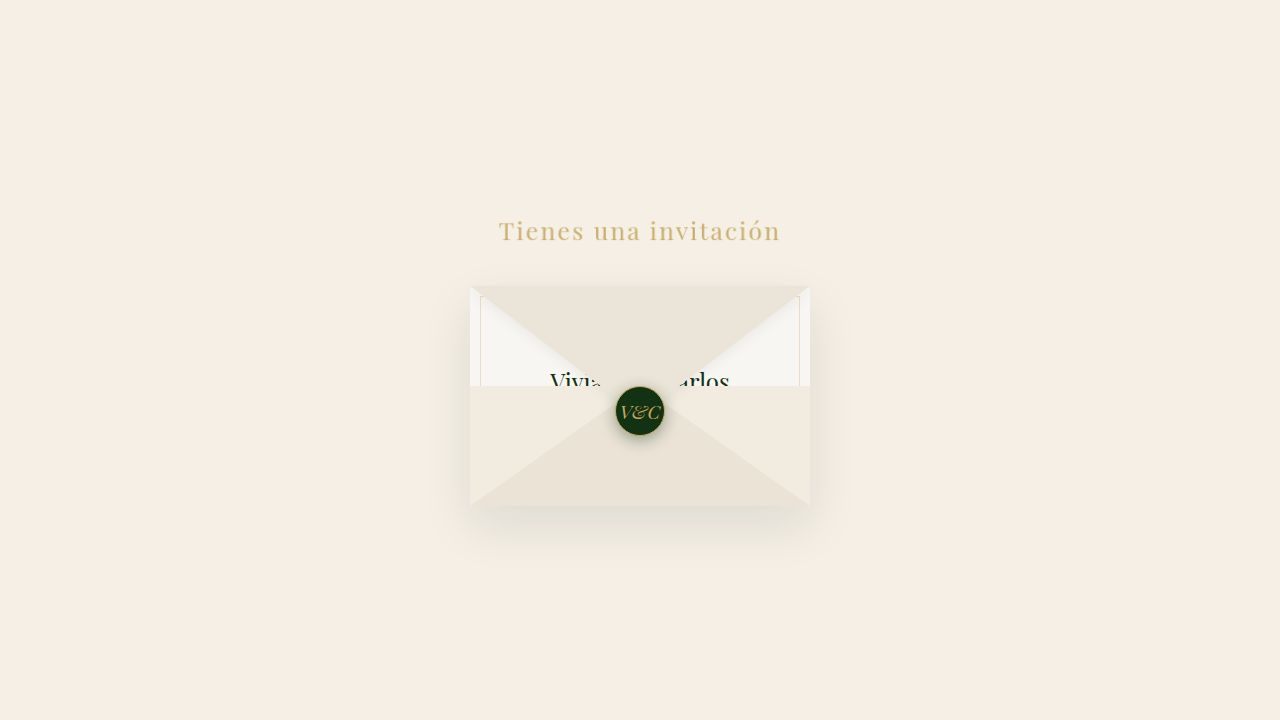
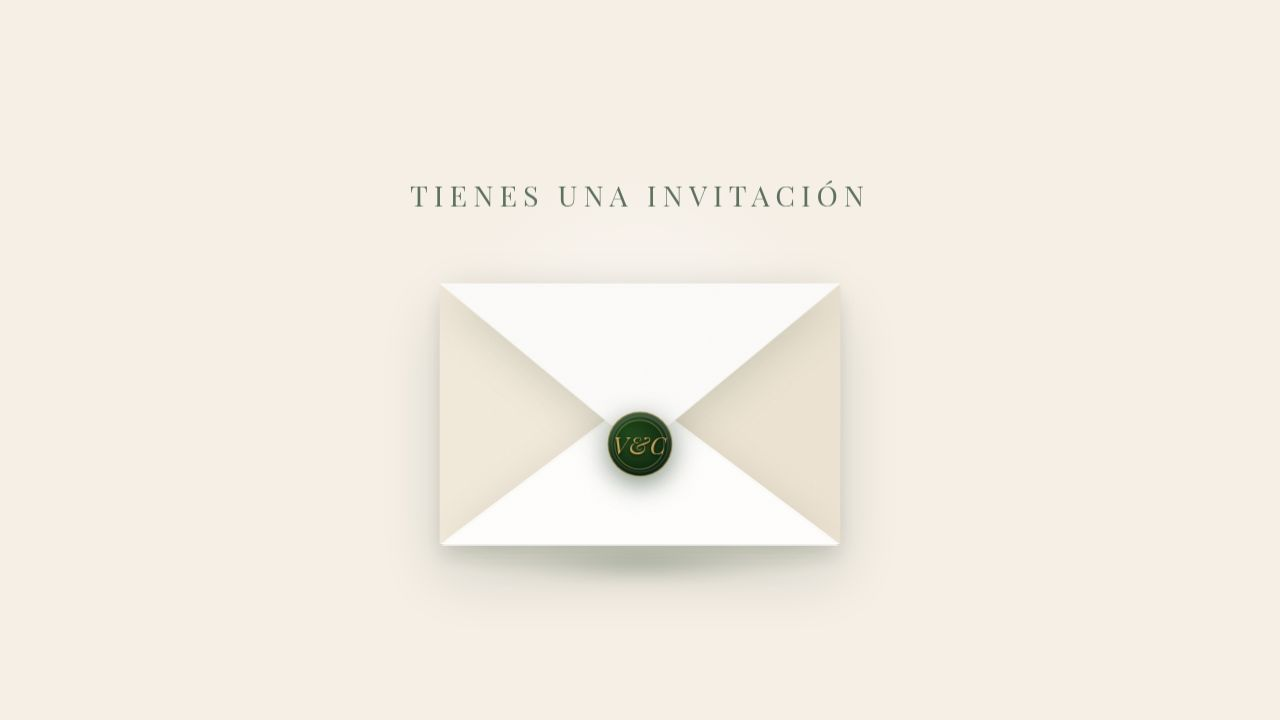
Improve envelope opening animation with refined 3D layering
Adjust CSS properties including `perspective`, `transform-style`, and `translateZ` values across various envelope elements to fix 3D stacking context issues during the opening animation.

Replit-Commit-Author: Agent
Replit-Commit-Session-Id: 67ff53f1-6319-4c05-a1fa-d823826aa299
Replit-Commit-Checkpoint-Type: full_checkpoint
Replit-Commit-Event-Id: a6f57064-525f-4b34-ab1a-0c7d4b36e7a5
Replit-Commit-Screenshot-Url: https://storage.googleapis.com/screenshot-production-us-central1/8185892f-c34b-42bc-9aa0-82786a02d8de/67ff53f1-6319-4c05-a1fa-d823826aa299/6mTcVJS
Replit-Helium-Checkpoint-Created: true

Changed region(s): [[0.3438, 0.3972, 0.6562, 0.825], [0.3125, 0.2444, 0.6562, 0.3361]]

diff --git a/client/src/styles.css b/client/src/styles.css
@@ -140,6 +140,7 @@ body::before {
     height: 260px;
     margin: 0 auto;
     border-radius: 4px;
+    perspective: 2000px;
     transform-style: preserve-3d;
     box-shadow: 0 30px 60px rgba(19, 49, 19, 0.15), 
                 0 15px 20px rgba(19, 49, 19, 0.1),
@@ -157,6 +158,7 @@ body::before {
     border-radius: 4px;
     z-index: 1;
     box-shadow: inset 0 20px 40px rgba(0, 0, 0, 0.08);
+    transform: translateZ(-2px);
 }
 
 /* Textura de papel premium global para el sobre */
@@ -169,6 +171,7 @@ body::before {
     z-index: 10;
     border-radius: 4px;
     mix-blend-mode: multiply;
+    transform: translateZ(12px);
 }
 
 /* Solapas laterales para dar volumen real */
@@ -181,6 +184,7 @@ body::before {
     border-left: 200px solid #f2eadb;
     z-index: 3;
     filter: drop-shadow(4px 0 5px rgba(0,0,0,0.03));
+    transform: translateZ(4px);
 }
 
 .envelope-right {
@@ -192,6 +196,7 @@ body::before {
     border-right: 200px solid #ede4d3;
     z-index: 3;
     filter: drop-shadow(-4px 0 5px rgba(0,0,0,0.03));
+    transform: translateZ(4px);
 }
 
 /* Solapa inferior (Frente) */
@@ -205,6 +210,7 @@ body::before {
     z-index: 4;
     border-radius: 0 0 4px 4px;
     filter: drop-shadow(0 -5px 15px rgba(0,0,0,0.06));
+    transform: translateZ(6px);
 }
 
 /* Highlight en el borde de la solapa inferior */
@@ -216,7 +222,7 @@ body::before {
     border-left: 200px solid transparent;
     border-right: 200px solid transparent;
     border-bottom: 150px solid rgba(255,255,255,0.7);
-    transform: scale(0.99) translateY(2px);
+    transform: scale(0.99) translateY(2px) translateZ(1px);
     z-index: -1;
 }
 
@@ -232,6 +238,7 @@ body::before {
     transform-origin: top;
     transition: transform 1.2s cubic-bezier(0.25, 1, 0.5, 1), z-index 0s 0.6s;
     filter: drop-shadow(0 10px 20px rgba(19, 49, 19, 0.15));
+    transform: translateZ(8px);
 }
 
 /* Highlight y textura en la solapa superior */
@@ -244,7 +251,7 @@ body::before {
     border-left: 200px solid transparent;
     border-right: 200px solid transparent;
     border-top: 165px solid rgba(255, 255, 255, 0.6);
-    transform: scale(0.985);
+    transform: scale(0.985) translateZ(1px);
 }
 
 /* Sombra de contacto muy fina bajo la solapa */
@@ -257,7 +264,7 @@ body::before {
     border-left: 198px solid transparent;
     border-right: 198px solid transparent;
     border-top: 163px solid rgba(0, 0, 0, 0.02);
-    transform: translateY(2px);
+    transform: translateY(2px) translateZ(-1px);
     z-index: -1;
 }
 
@@ -265,7 +272,7 @@ body::before {
 .envelope-seal {
     position: absolute;
     top: 160px; left: 50%;
-    transform: translate(-50%, -50%);
+    transform: translate(-50%, -50%) translateZ(10px);
     width: 65px; height: 65px;
     background: radial-gradient(circle at 30% 30%, #1a451a 0%, var(--green-main) 50%, var(--green-ter) 100%);
     border-radius: 50%;
@@ -274,7 +281,7 @@ body::before {
     box-shadow: 0 8px 25px rgba(19, 49, 19, 0.5),
                 inset 0 3px 6px rgba(255, 255, 255, 0.3),
                 inset 0 -3px 8px rgba(0, 0, 0, 0.6);
-    transition: opacity 0.6s ease, transform 0.6s cubic-bezier(0.25, 1, 0.5, 1);
+    transition: opacity 0.6s ease, transform 0.6s cubic-bezier(0.25, 1, 0.5, 1), z-index 0s 0.6s;
     border: 1px solid rgba(198, 167, 94, 0.8);
 }
 
@@ -319,6 +326,7 @@ body::before {
                 0 0 0 7px rgba(198, 167, 94, 0.15) inset;
     transition: transform 1.5s cubic-bezier(0.25, 1, 0.5, 1) 0.3s;
     padding: 30px;
+    transform: translateZ(1px);
 }
 
 .letter h3 {
@@ -354,21 +362,21 @@ body::before {
     transform: translateY(25px) scale(0.98);
 }
 .envelope-wrapper.open .envelope-flap {
-    transform: rotateX(180deg);
-    z-index: 0;
+    transform: translateZ(-8px) rotateX(180deg);
+    z-index: 1;
     filter: drop-shadow(0 -10px 20px rgba(19, 49, 19, 0.08));
 }
 .envelope-wrapper.open .envelope-seal {
     opacity: 0;
-    transform: translate(-50%, -50%) scale(0.7);
+    transform: translate(-50%, -50%) translateZ(10px) scale(0.7);
 }
 .envelope-wrapper.open .letter {
-    transform: translateY(-130px);
-    z-index: 4; /* Sube por encima de las solapas frontales */
+    transform: translateY(-130px) translateZ(1px);
     box-shadow: 0 -20px 40px rgba(19, 49, 19, 0.12),
                 0 0 0 1px rgba(198, 167, 94, 0.3) inset,
                 0 0 0 6px #ffffff inset,
                 0 0 0 7px rgba(198, 167, 94, 0.15) inset;
+    z-index: 2;
 }
 .envelope-wrapper.open .envelope-text {
     opacity: 0;